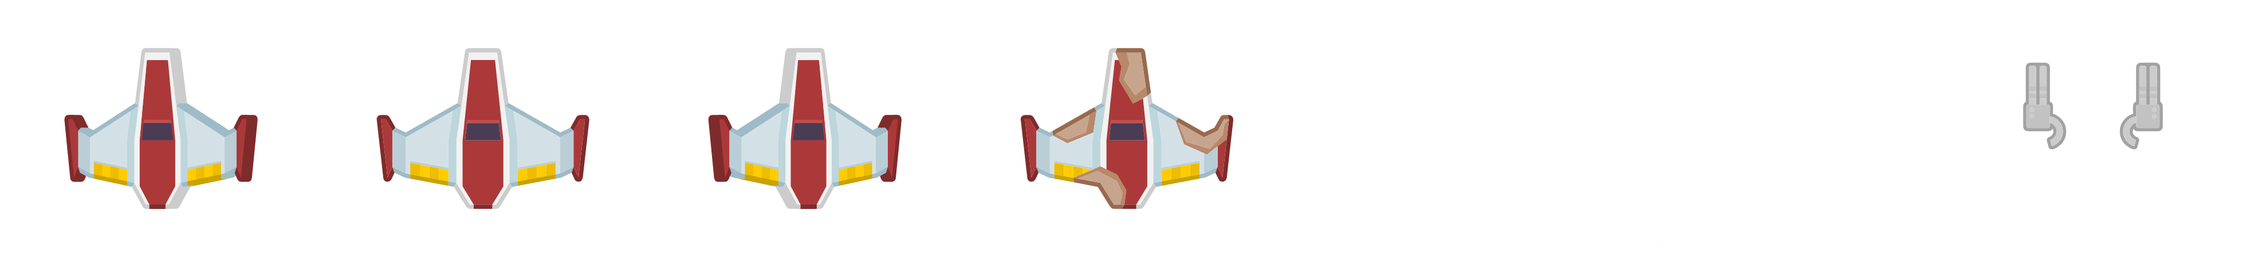
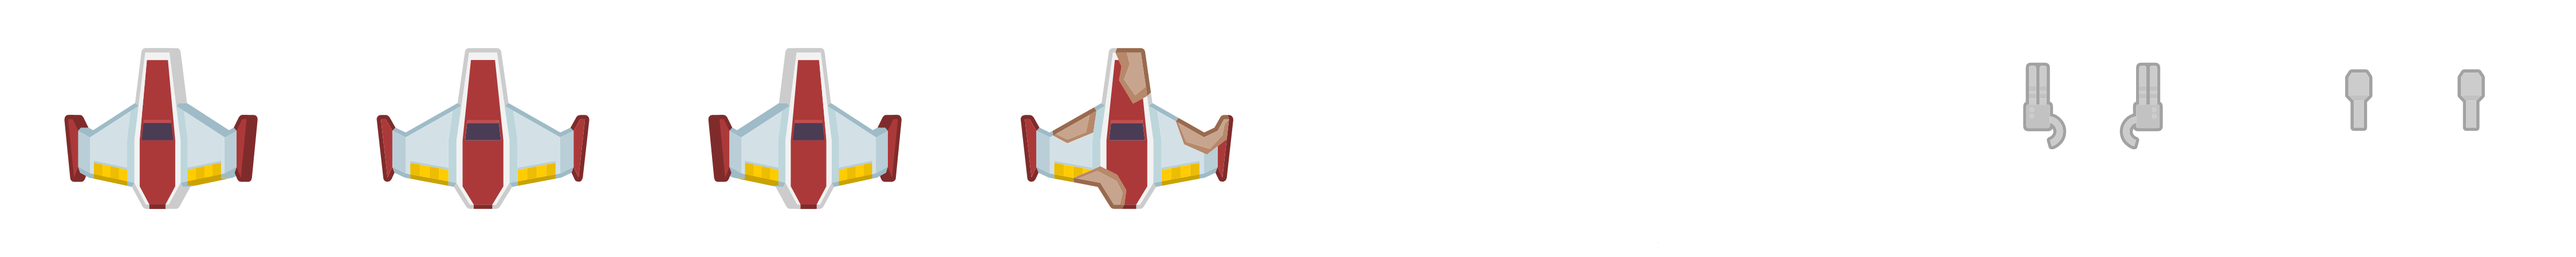
Laser cannon jugador

Changed region(s): [[0.0, 0.1867, 0.5581, 0.8089], [0.8991, 0.2489, 0.9921, 0.56], [0.7751, 0.2489, 0.8371, 0.56]]

diff --git a/MainSpaceShip.cpp b/MainSpaceShip.cpp
@@ -65,12 +65,19 @@ MainSpaceShip::MainSpaceShip() {
     missileCannon->setBulletSpeed(6);
     missileCannon->setReverseDirection(true);
     missileCannon->setBulletTexture(&missileCannonTexture);
+
+    laserCannon= CannonFactory::createLaserCannon();
+    laserCannon->setOwnerSprite(&SOwnSpaceShip);
+    laserCannon->setBulletDamage(20);
+    laserCannon->setBulletSpeed(20);
+    laserCannon->setReverseDirection(1);
+    laserCannon->setBulletTexture(&shipCannonTexture);
     //missileCannon->setBulletTextureFilename("Resources/Missiles.png");
     //missileCannon->setBulletTextureFilename("Resources/Bullets.png");
 
 
-    explosionTexture = SpritesManager::getInstance()->getExplosionTexture();
-    rectX = (explosionTexture->getSize().x/explosionAmount), rectY = explosionTexture->getSize().y;
+    //explosionTexture = SpritesManager::getInstance()->getExplosionTexture();
+    //rectX = (explosionTexture->getSize().x/explosionAmount), rectY = explosionTexture->getSize().y;
 
 }
 
@@ -86,6 +93,7 @@ void MainSpaceShip::setbulletList(std::vector<Bullet *> *value)
     bulletList = value;
     shipCannon->setBulletList(bulletList);
     missileCannon->setBulletList(bulletList);
+    laserCannon->setBulletList(bulletList);
 }
 void MainSpaceShip::lifeManager(int damage){
     lifeLevel-=damage;
@@ -104,7 +112,6 @@ void MainSpaceShip::reset() {
     isWhite = false;
     shieldActivated = false;
     exploding = false;
-    currentExplosionTexture = 0;
     powerUpOn = false;
     globalScore = 0;
 
@@ -298,14 +305,7 @@ void MainSpaceShip::shield() {
 }
 
 void MainSpaceShip::laser(){
-    if(laser_On ==false){
-        laser_On=true;
-        powerUpOn = true;
-        laserClock.restart();
-    }else{
-        laser_On=false;
-        powerUpOn= false;
-    }
+    setLaser_On(true);
 }
 
 bool MainSpaceShip::gameOver() {
@@ -414,7 +414,7 @@ void MainSpaceShip::playerShoot() {
         }
     } else if (laser_On){
         sound.setBuffer(missileShootBuffer);
-        //missileCannon->shoot();
+        laserCannon->shoot();
     } else {
 
         shipCannon->shoot();
@@ -434,6 +434,26 @@ void MainSpaceShip::loseLife() {
 Queue<powerUp> *MainSpaceShip::getPowerUpsQueueReference()
 {
     return &powerUpsQueue;
+}
+
+bool MainSpaceShip::getLaser_On() const
+{
+    return laser_On;
+}
+
+void MainSpaceShip::setLaser_On(bool value)
+{
+    laser_On = value;
+
+    if(laser_On){
+        powerUpOn = true;
+        updateEffect(3);
+
+    }
+    else{
+        updateEffect(0);
+        powerUpOn = false;
+    }
 }
 bool MainSpaceShip::attack(int damage)
 {

diff --git a/cannon.cpp b/cannon.cpp
@@ -24,6 +24,7 @@ void Cannon::shootBullet(int speed, Motion *bulletMotion, float angle)
     newBullet->setScale(0.2);
     newBullet->setCenterPosition(getCenterPosition());
     newBullet->rotate(angle*getDirection()+(180*reverseDirection));
+    newBullet->setIsLaser(isLaser);
     if(bulletList==NULL){
         std::cout<<"ERROR nullptr"<<std::endl;
     }
@@ -69,6 +70,16 @@ int Cannon::getDirection()
         direction=-1;
     }
     return direction;
+}
+
+bool Cannon::getIsLaser() const
+{
+    return isLaser;
+}
+
+void Cannon::setIsLaser(bool value)
+{
+    isLaser = value;
 }
 
 bool Cannon::getReverseDirection() const
@@ -190,6 +201,14 @@ Cannon *createFollowerCannon(sf::Sprite *owner, sf::Sprite *target)
     return new FollowerCannon(owner, target);
 }
 
+Cannon *createLaserCannon()
+{
+    Cannon *newCannon =  new SimpleCannon();
+    newCannon->setIsLaser(true);
+    return newCannon;
+}
+
+
 }
 
 FollowerCannon::FollowerCannon(sf::Sprite *owner, sf::Sprite *target)
@@ -201,7 +220,7 @@ FollowerCannon::FollowerCannon(sf::Sprite *owner, sf::Sprite *target)
 
 void FollowerCannon::shoot()
 {
-        shootBullet(bulletSpeed);
+    shootBullet(bulletSpeed);
 }
 
 sf::Sprite *FollowerCannon::getOwner() const

diff --git a/cannon.h b/cannon.h
@@ -36,6 +36,9 @@ public:
     sf::Texture *getBulletTexture() const;
     void setBulletTexture(sf::Texture *value);
 
+    bool getIsLaser() const;
+    void setIsLaser(bool value);
+
 protected:
     int bulletDamage;
     int bulletSpeed;
@@ -47,6 +50,7 @@ protected:
     sf::Vector2f getCenterPosition();
     bool reverseDirection=false;
     int getDirection();
+    bool isLaser = false;
     //sf::Vector2f ;
 
 
@@ -98,6 +102,7 @@ namespace CannonFactory{
      Cannon *createSimpleCannon();
      Cannon *createSprayCannon(int angle, int bulletsByshoot);
      Cannon *createFollowerCannon(sf::Sprite *owner,sf::Sprite *target);
+     Cannon *createLaserCannon();
 
 }
 

diff --git a/Game.cpp b/Game.cpp
@@ -126,6 +126,8 @@ void Game::updateAll(RenderWindow &window, Options* gameOptions)
     for (int i = 0; i < playerbulletList.size(); ++i) {
         playerbulletList[i]->update(window, time.asMilliseconds());
         playerbulletList[i]->render(window);
+        //playerbulletList[i]->getSpriteReference()->scale(1,2);
+
         if( playerbulletList[i]->getPosition().y <= 0 | playerbulletList[i]->getPosition().x >= 2000 | playerbulletList[i]->getPosition().x <= -500){
             delete playerbulletList.operator[](i);
             playerbulletList.erase(playerbulletList.begin()+i);

diff --git a/MainSpaceShip.h b/MainSpaceShip.h
@@ -107,7 +107,7 @@ private:
     Clock shieldClock;
     Clock laserClock;
     std::vector<Bullet *> *bulletList;
-    int texturesAmount=7;
+    int texturesAmount=8;
     int defaultTexture=1;
     void updateTexture(int value);
     void updateEffect(int value);
@@ -124,6 +124,9 @@ private:
 public:
     Options* getGameOptions() const;
     void setGameOptions(Options *gameOptions);
+
+    bool getLaser_On() const;
+    void setLaser_On(bool value);
 
 private:
     const float speed = 6;

diff --git a/bullet.cpp b/bullet.cpp
@@ -39,8 +39,21 @@ void Bullet::animate(float passedTime)
 
 void Bullet::update(sf::RenderWindow &window, float time)
 {
+    if(isLaser){
+        sprite.scale(1,1.5);
+    }
     Entity::update(window, time);
     animate(time);
+}
+
+bool Bullet::getIsLaser() const
+{
+    return isLaser;
+}
+
+void Bullet::setIsLaser(bool value)
+{
+    isLaser = value;
 }
 
 

diff --git a/bullet.h b/bullet.h
@@ -14,11 +14,13 @@ public:
     void setDamage(int value);
     void animate(float passedTime);
     void update(sf::RenderWindow &window, float time);
-
+    bool getIsLaser() const;
+    void setIsLaser(bool value);
 
 private:
     int damage;
     float time=0;
+    bool isLaser=false;
 };
 
 #endif // BULLET_H
